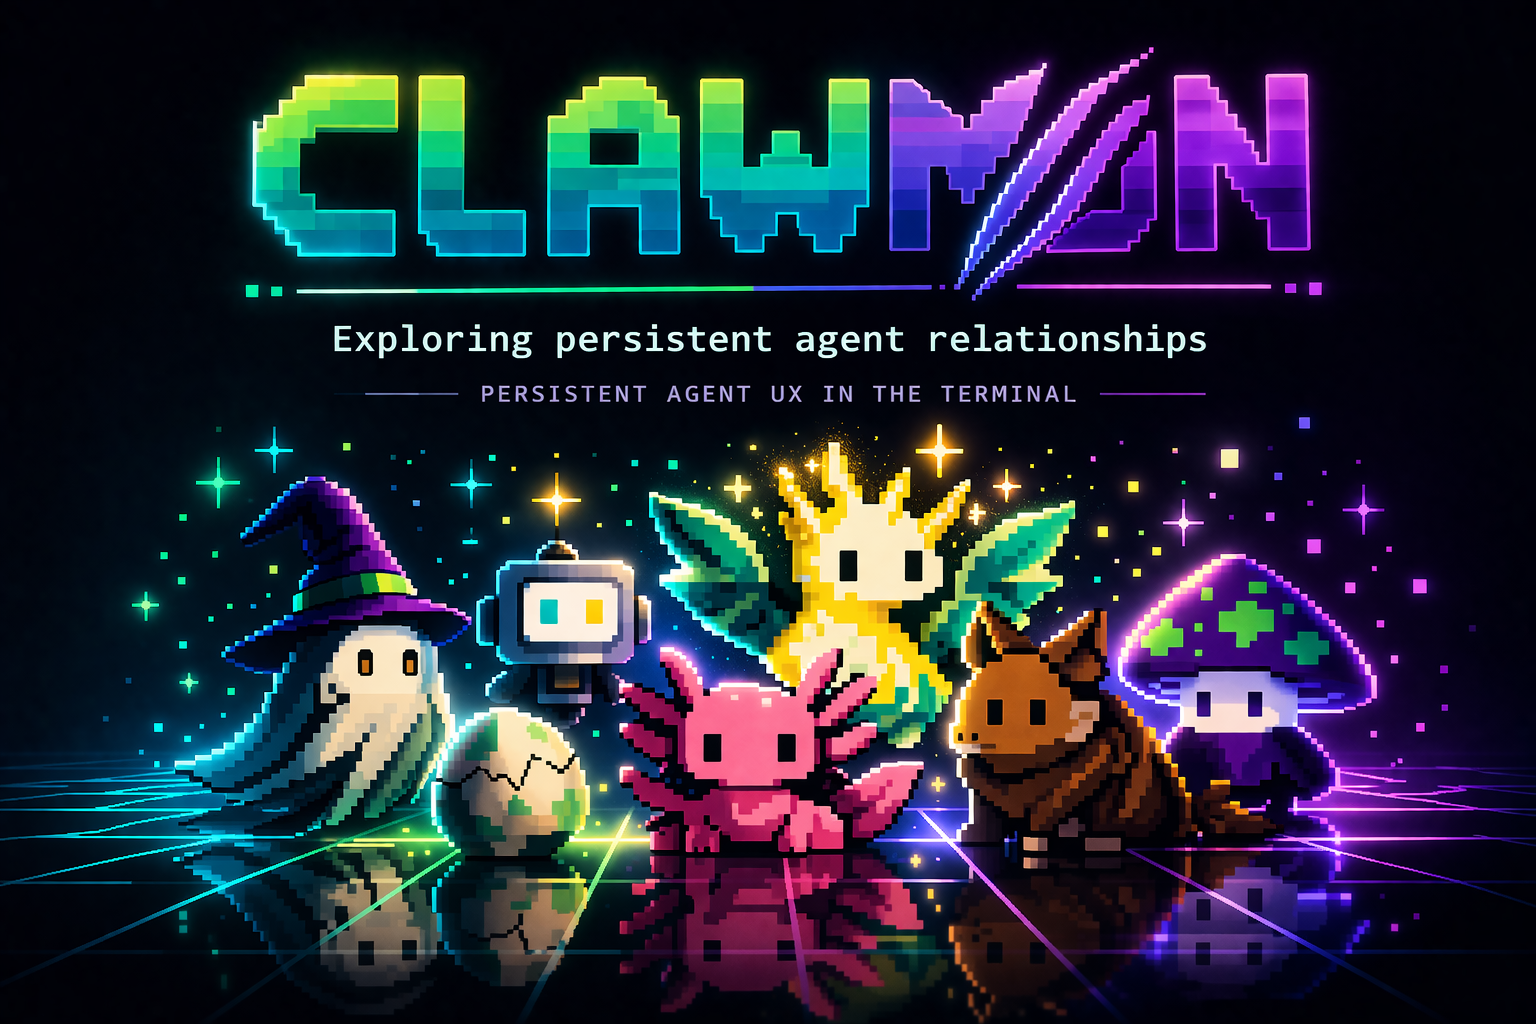
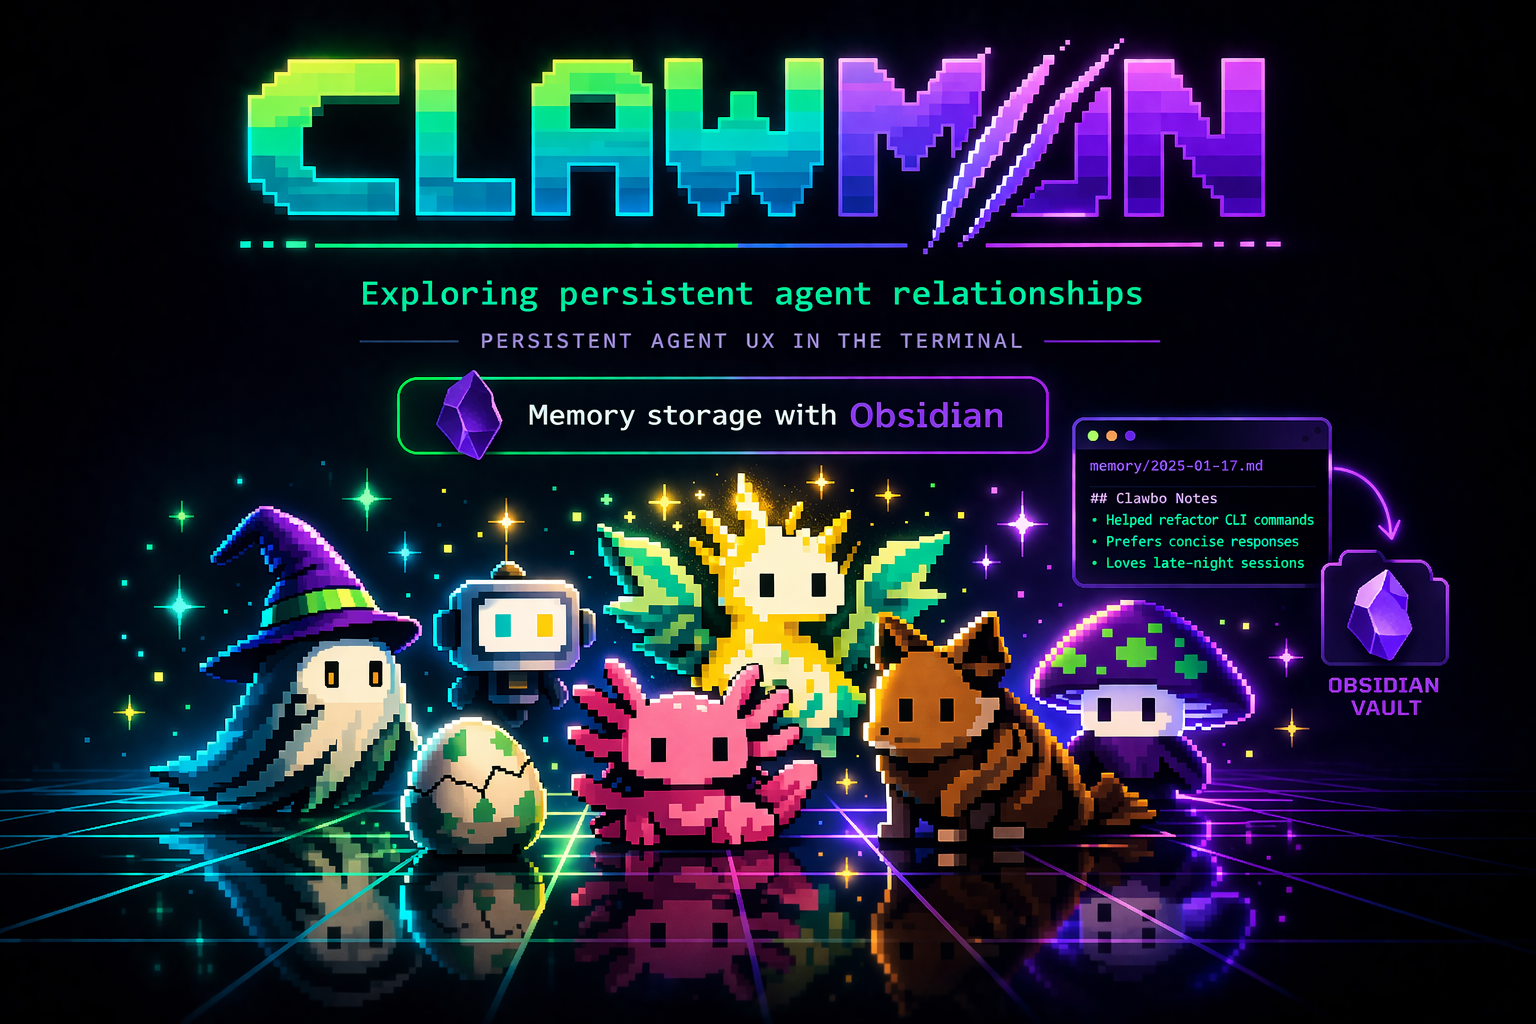
adds configurable memory root with Obsidian vault support
Memories can now be redirected to an Obsidian vault via `clawmon config memoryRoot /path/to/vault`. Memory frontmatter includes tags for Obsidian filtering and graph linking. State files stay in ~/.clawmon/, only markdown memories redirect.

- adds memoryRoot to ClawmonConfig
- adds initMemoryRoot/setMemoryRoot to store.ts with lazy config loading
- adds tags: [clawmon, <id>, <type>] to memory frontmatter
- adds `clawmon config` command to view/set/reset memoryRoot
- 5 new tests covering custom root, tags, fallback, config persistence
- documents Obsidian integration in README, MEMORY-DESIGN.md, CLAUDE.md

diff --git a/src/memory/store.ts b/src/memory/store.ts
@@ -7,18 +7,46 @@ import type { Clawmon, ClawmonConfig, MemoryEntry } from '../types.js';
 const CLAWMON_DIR = join(homedir(), '.clawmon');
 const CONFIG_PATH = join(CLAWMON_DIR, 'config.json');
 
+// Cached memory root -- loaded from config on first use
+let _memoryRootCache: string | null = null;
+
 // --- Directory helpers ---
 
 function clawmonDir(id: string): string {
   return join(CLAWMON_DIR, 'clawmons', id);
 }
 
-function memoryDir(id: string): string {
+function defaultMemoryDir(id: string): string {
   return join(clawmonDir(id), 'memory');
+}
+
+function memoryDir(id: string): string {
+  if (_memoryRootCache) {
+    return join(_memoryRootCache, id);
+  }
+  return defaultMemoryDir(id);
 }
 
 function conversationDir(id: string): string {
   return join(clawmonDir(id), 'conversations');
+}
+
+/** Load and cache the memory root from config. Call once at startup or before first memory operation. */
+export async function initMemoryRoot(): Promise<void> {
+  if (_memoryRootCache !== null) return;
+  try {
+    const config = await loadConfig();
+    if (config.memoryRoot) {
+      _memoryRootCache = config.memoryRoot;
+    }
+  } catch {
+    // Config not yet created -- use default
+  }
+}
+
+/** Override memory root (for testing). */
+export function setMemoryRoot(root: string | null): void {
+  _memoryRootCache = root;
 }
 
 // --- Init ---
@@ -57,6 +85,7 @@ export async function saveConfig(config: ClawmonConfig): Promise<void> {
 // --- Clawmon CRUD ---
 
 export async function saveClawmon(clawmon: Clawmon): Promise<void> {
+  await initMemoryRoot();
   const dir = clawmonDir(clawmon.id);
   await mkdir(dir, { recursive: true });
   await mkdir(memoryDir(clawmon.id), { recursive: true });
@@ -122,6 +151,7 @@ export async function findClawmonByName(name: string): Promise<Clawmon | null> {
 // --- Memory ---
 
 export async function saveMemory(clawmonId: string, entry: MemoryEntry): Promise<void> {
+  await initMemoryRoot();
   const dir = memoryDir(clawmonId);
   await mkdir(dir, { recursive: true });
 
@@ -136,6 +166,7 @@ export async function saveMemory(clawmonId: string, entry: MemoryEntry): Promise
 name: ${entry.name}
 description: ${entry.description}
 type: ${entry.type}
+tags: [clawmon, ${clawmonId}, ${entry.type}]
 createdAt: ${entry.createdAt}
 updatedAt: ${entry.updatedAt}
 ---
@@ -159,6 +190,7 @@ ${entry.content}
 }
 
 export async function loadMemories(clawmonId: string): Promise<MemoryEntry[]> {
+  await initMemoryRoot();
   const dir = memoryDir(clawmonId);
   if (!existsSync(dir)) return [];
 

diff --git a/src/cli.ts b/src/cli.ts
@@ -7,6 +7,7 @@ import {
   initClawmonDir,
   isInitialized,
   loadConfig,
+  saveConfig,
   findClawmonByName,
   listClawmons,
   listFamily,
@@ -62,6 +63,53 @@ program
     }
     await initClawmonDir();
     console.log(chalk.green('  ~/.clawmon/ created. Ready to hatch!'));
+  });
+
+// --- config ---
+
+program
+  .command('config')
+  .description('View or set configuration options')
+  .argument('[key]', 'Config key to set (e.g. memoryRoot)')
+  .argument('[value]', 'Value to set (use "reset" to clear)')
+  .action(async (key?: string, value?: string) => {
+    if (!isInitialized()) await initClawmonDir();
+    const config = await loadConfig();
+
+    if (!key) {
+      console.log();
+      console.log(chalk.bold('  Clawmon Config'));
+      console.log();
+      console.log(`  userId:     ${chalk.dim(config.userId)}`);
+      console.log(`  memoryRoot: ${config.memoryRoot ? chalk.cyan(config.memoryRoot) : chalk.dim('~/.clawmon/ (default)')}`);
+      console.log(`  clawmons:   ${chalk.dim(`${config.clawmons.length} hatched`)}`);
+      console.log();
+      console.log(chalk.dim('  Set Obsidian vault: clawmon config memoryRoot /path/to/vault/clawmon'));
+      console.log(chalk.dim('  Reset to default:   clawmon config memoryRoot reset'));
+      console.log();
+      return;
+    }
+
+    if (key === 'memoryRoot') {
+      if (!value) {
+        console.log(config.memoryRoot ? `  memoryRoot: ${config.memoryRoot}` : chalk.dim('  memoryRoot: ~/.clawmon/ (default)'));
+        return;
+      }
+      if (value === 'reset') {
+        delete config.memoryRoot;
+        await saveConfig(config);
+        console.log(chalk.green('  Memory root reset to default (~/.clawmon/)'));
+        return;
+      }
+      config.memoryRoot = value;
+      await saveConfig(config);
+      console.log(chalk.green(`  Memory root set to: ${value}`));
+      console.log(chalk.dim('  New memories will be written there. Existing memories stay in ~/.clawmon/.'));
+      return;
+    }
+
+    console.log(chalk.red(`  Unknown config key: "${key}"`));
+    console.log(chalk.dim('  Available: memoryRoot'));
   });
 
 // --- hatch (predefined role) ---
@@ -563,7 +611,7 @@ program
 // --- Routing: known command vs natural language ---
 
 const knownCommands = new Set([
-  'init', 'hatch', 'spawn', 'spawn-family', 'talk-family',
+  'init', 'config', 'hatch', 'spawn', 'spawn-family', 'talk-family',
   'talk', 'chat', 'roles', 'show', 'notes',
   'family', 'list', 'export', 'import', 'help', 'skills',
   '-V', '--version', '-h', '--help',

diff --git a/src/memory/store.test.ts b/src/memory/store.test.ts
@@ -15,6 +15,7 @@ const {
   initClawmonDir,
   isInitialized,
   loadConfig,
+  saveConfig,
   saveClawmon,
   loadClawmon,
   listClawmons,
@@ -27,6 +28,7 @@ const {
   exportClawmon,
   importClawmon,
   listFamily,
+  setMemoryRoot,
 } = await import('./store.js');
 
 import type { Clawmon, MemoryEntry } from '../types.js';
@@ -310,5 +312,63 @@ describe('export / import', () => {
     expect(imported.id).toBe('imported');
     const loaded = await loadClawmon('imported');
     expect(loaded).not.toBeNull();
+  });
+});
+
+describe('custom memory root (Obsidian integration)', () => {
+  const VAULT_DIR = join(TEST_HOME, 'obsidian-vault', 'clawmon');
+
+  beforeEach(async () => {
+    await initClawmonDir();
+    await saveClawmon(makeClawmon());
+    await mkdir(VAULT_DIR, { recursive: true });
+  });
+
+  afterEach(() => {
+    setMemoryRoot(null);
+  });
+
+  it('writes memories to custom root when set', async () => {
+    setMemoryRoot(VAULT_DIR);
+    await saveMemory('test-penny', makeMemory());
+
+    // Memory should be in vault, not in default location
+    const vaultFile = join(VAULT_DIR, 'test-penny', 'savings-goal.md');
+    expect(existsSync(vaultFile)).toBe(true);
+  });
+
+  it('loads memories from custom root', async () => {
+    setMemoryRoot(VAULT_DIR);
+    await saveMemory('test-penny', makeMemory());
+
+    const memories = await loadMemories('test-penny');
+    expect(memories).toHaveLength(1);
+    expect(memories[0]!.name).toBe('Savings goal');
+  });
+
+  it('includes tags in frontmatter for Obsidian', async () => {
+    setMemoryRoot(VAULT_DIR);
+    await saveMemory('test-penny', makeMemory());
+
+    const vaultFile = join(VAULT_DIR, 'test-penny', 'savings-goal.md');
+    const content = await readFile(vaultFile, 'utf-8');
+    expect(content).toContain('tags: [clawmon, test-penny, goal]');
+  });
+
+  it('falls back to default when no custom root is set', async () => {
+    setMemoryRoot(null);
+    await saveMemory('test-penny', makeMemory());
+
+    const defaultFile = join(TEST_HOME, '.clawmon', 'clawmons', 'test-penny', 'memory', 'savings-goal.md');
+    expect(existsSync(defaultFile)).toBe(true);
+  });
+
+  it('stores config memoryRoot via saveConfig', async () => {
+    const config = await loadConfig();
+    config.memoryRoot = VAULT_DIR;
+    await saveConfig(config);
+
+    const reloaded = await loadConfig();
+    expect(reloaded.memoryRoot).toBe(VAULT_DIR);
   });
 });

diff --git a/src/types.ts b/src/types.ts
@@ -108,6 +108,7 @@ export interface ClawmonConfig {
   version: string;
   userId: string;
   clawmons: string[]; // list of clawmon IDs (directory names)
+  memoryRoot?: string; // custom memory root (e.g. Obsidian vault path). null = default (~/.clawmon/)
 }
 
 // --- Memory ---

diff --git a/MEMORY-DESIGN.md b/MEMORY-DESIGN.md
@@ -44,8 +44,21 @@ Currently ahead of schedule at €2,340 saved.
 2. **Portability** -- export a clawmon and its memories as a directory copy
 3. **Debuggability** -- when recall seems wrong, you can see the source data directly
 4. **Simplicity** -- no infrastructure, no embeddings model, no retrieval pipeline to tune
+5. **Obsidian-compatible** -- memory files are markdown with YAML frontmatter and tags, ready to drop into any Obsidian vault
 
 The trade-off is that retrieval is naive: all memories for a clawmon are loaded into context on every message. This works for small memory sets (<50 entries). It will not scale to hundreds.
+
+### Obsidian Integration
+
+Memory files include `tags: [clawmon, <companion-name>, <type>]` in frontmatter, making them instantly filterable, searchable, and graph-linked in Obsidian. Users can point the memory root at their vault:
+
+```bash
+clawmon config memoryRoot /path/to/obsidian-vault/clawmon
+```
+
+This redirects all memory writes to the vault. Each companion gets a subfolder (`vault/clawmon/penny/`). State files (config, clawmon.json, conversations) stay in `~/.clawmon/`. Only the markdown memories move.
+
+Users without Obsidian don't need to configure anything -- the default `~/.clawmon/` path works identically.
 
 ## How Retrieval Works
 
@@ -106,6 +119,8 @@ What the code actually does today vs what this doc describes.
 | MEMORY.md index | **Implemented** | `memory/store.ts:148-158` |
 | Role-scoped save instructions | **Implemented** | System prompt: "do not save anything outside your role's domain" |
 | "Useful or invasive?" test | **Implemented** | System prompt guidance |
+| Obsidian-compatible frontmatter + tags | **Implemented** | `memory/store.ts` -- tags: [clawmon, id, type] |
+| Configurable memory root | **Implemented** | `clawmon config memoryRoot /path/to/vault` |
 | Full context injection (all memories) | **Implemented** | `api.ts:330-332` -- all memories loaded every message |
 | Relevance-filtered retrieval | **Not implemented** | All memories injected regardless of relevance |
 | Memory summarization / compression | **Not implemented** | No summary, no archival |

diff --git a/README.md b/README.md
@@ -165,6 +165,16 @@ Memory is the hard problem. Clawmon uses file-based storage with typed entries -
 
 Each memory has a type (`observation`, `pattern`, `preference`, `fact`, `goal`, `insight`), a creation date, and plain-text content. The clawmon decides when to save -- you just talk naturally.
 
+### Obsidian Integration
+
+Memory files are markdown with YAML frontmatter and tags -- already Obsidian-compatible. Point clawmon at your vault and memories show up as navigable, searchable, graph-linked notes alongside your own:
+
+```bash
+clawmon config memoryRoot /path/to/your/obsidian-vault/clawmon
+```
+
+No Obsidian? No problem. Memories default to `~/.clawmon/` and work the same way.
+
 See [MEMORY-DESIGN.md](MEMORY-DESIGN.md) for the full design: what gets stored, what gets summarized, what gets forgotten, and how memory stays useful instead of decaying into noise.
 
 ## Safety and Behavior Boundaries
@@ -249,6 +259,11 @@ clawmon skills penny                    # see available skills
 # Portability
 clawmon export penny                    # export to JSON
 clawmon import penny.json               # import from JSON
+
+# Config
+clawmon config                          # view current settings
+clawmon config memoryRoot /path/to/vault  # set Obsidian vault path
+clawmon config memoryRoot reset         # reset to default
 
 # Debug
 clawmon --debug "@penny hello"          # verbose output for troubleshooting

diff --git a/CLAUDE.md b/CLAUDE.md
@@ -46,6 +46,7 @@ npx tsx src/index.ts hatch financial-advisor     # hatch with role
 npx tsx src/index.ts "@penny how's my budget?"  # one-shot @mention
 npx tsx src/index.ts chat penny                 # interactive REPL
 npx tsx src/index.ts family                     # list your family
+npx tsx src/index.ts config                     # view/set config (memoryRoot for Obsidian)
 npx tsx src/index.ts --debug <any command>      # verbose debug output
 ```
 
